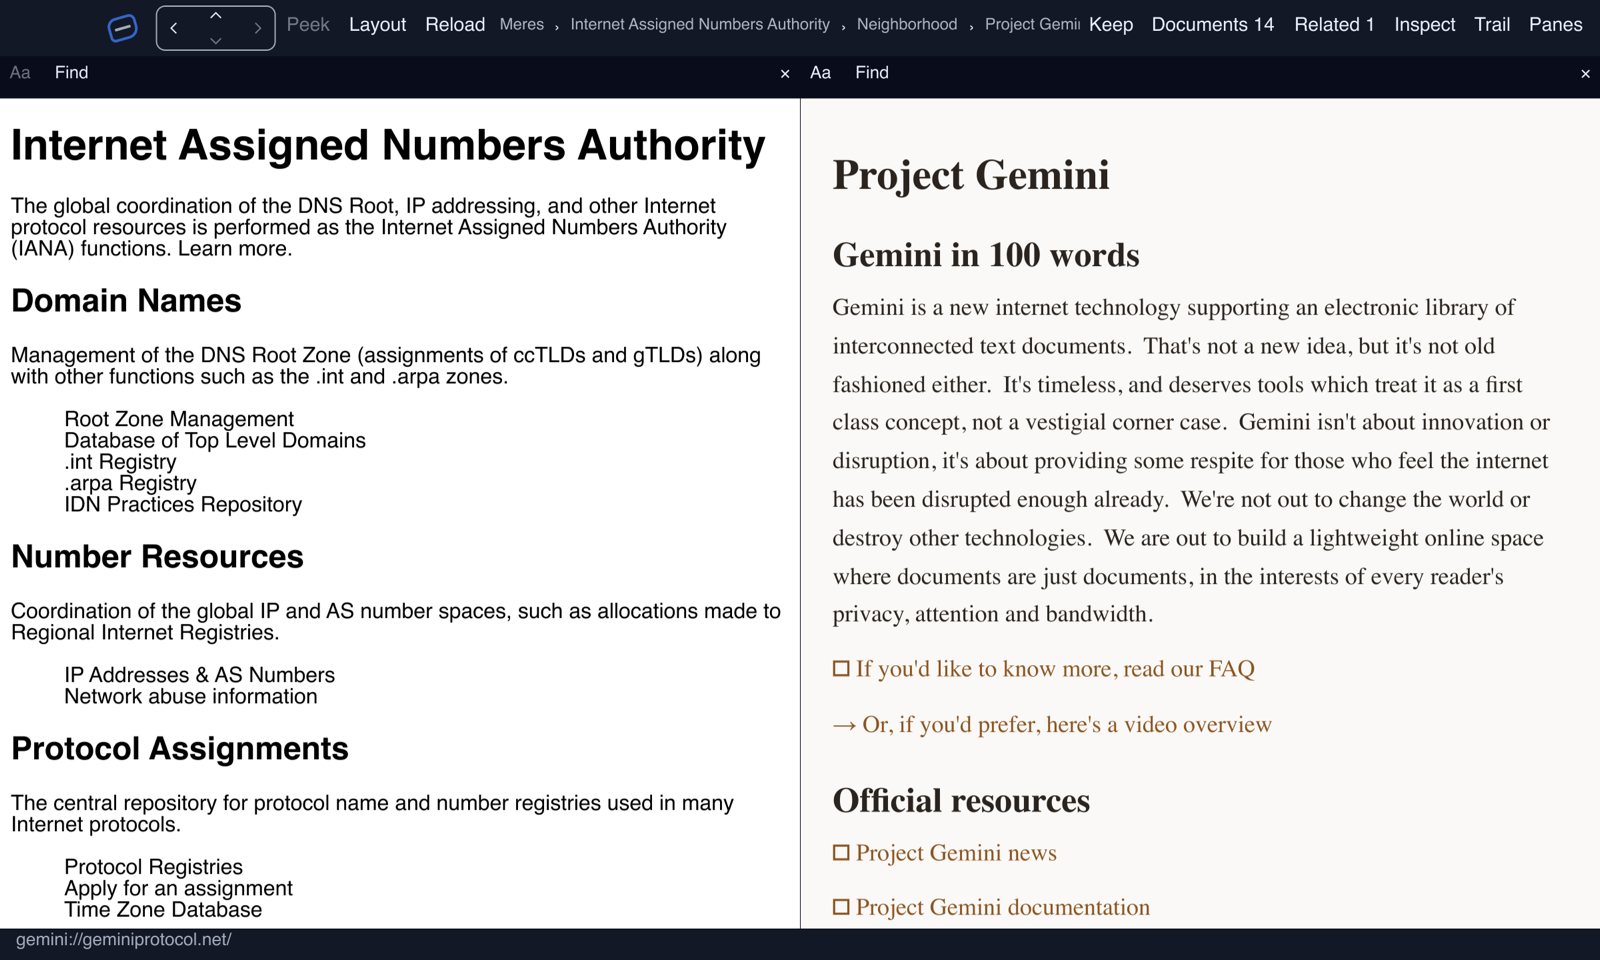
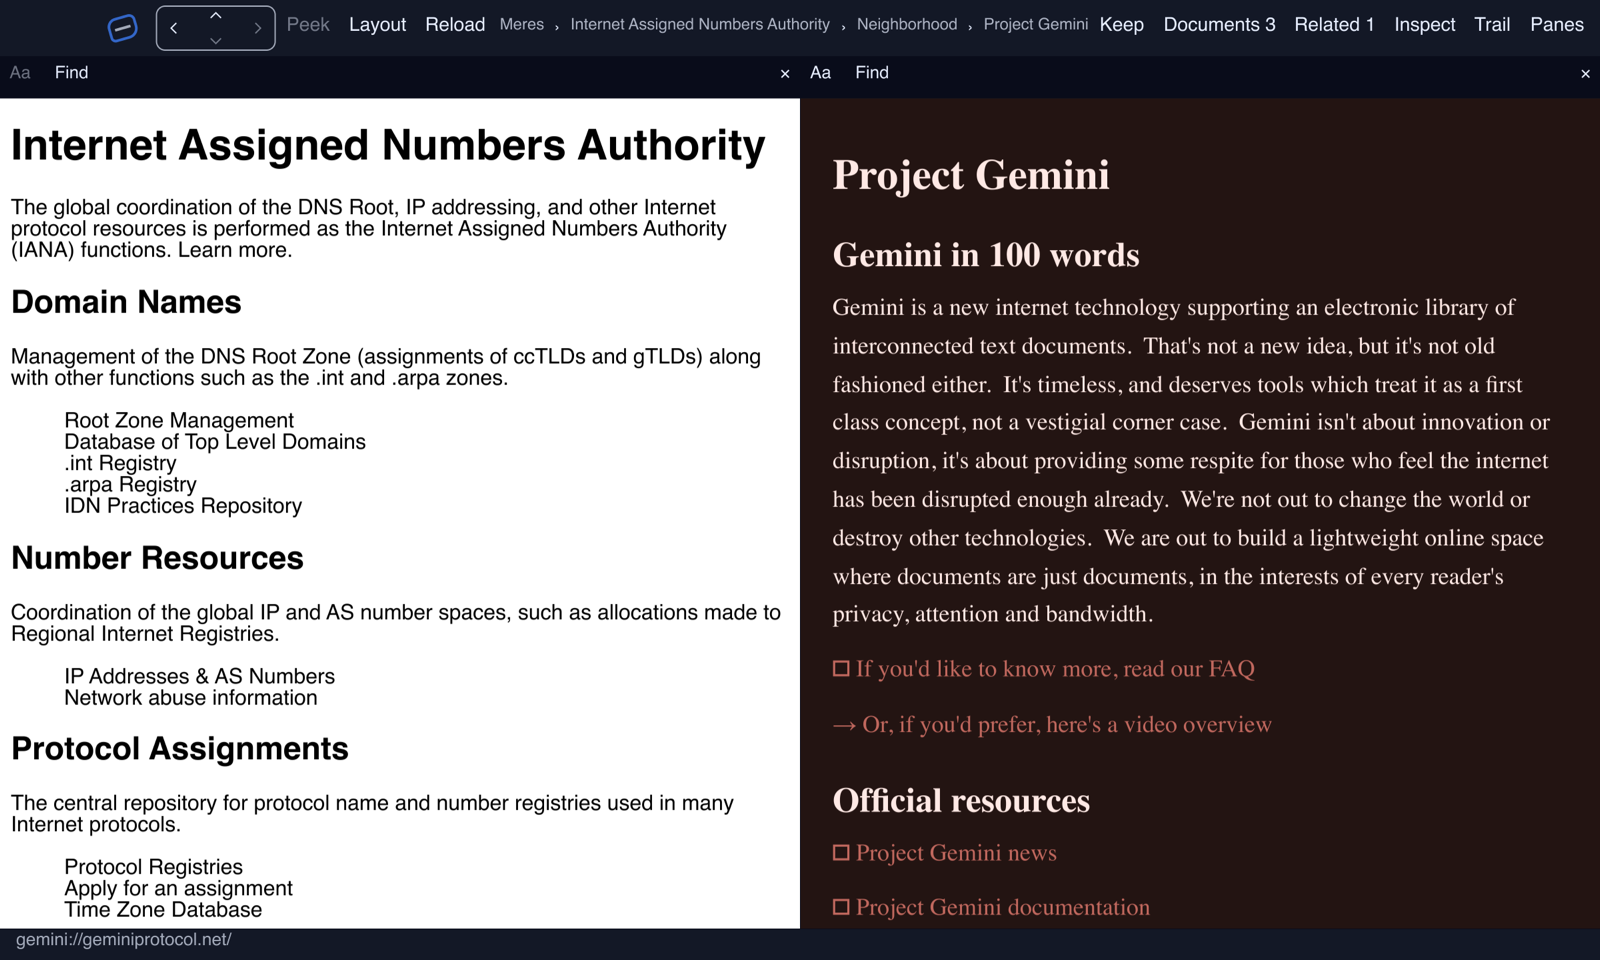
README: Workbench shot with the capsule in the dark host palette
The Gemini capsule now derives its palette under the app's light or
dark mode; the shot is retaken under the default System theme on a
dark desktop.

diff --git a/README.md b/README.md
@@ -144,8 +144,8 @@ founding brief is `design_docs/2026-07-08_turnstone_founding.md`.
 </p>
 
 <p align="center">
-  <img src="assets/screenshots/workbench-split.png" alt="Turnstone Workbench with two tiles: the IANA web page on a white canvas, and the Project Gemini capsule in a warm palette derived from its host" width="900"><br>
-  <sub>The Workbench tiles graph nodes as live documents: a web page beside a Gemini capsule, which takes a palette derived from its host.</sub>
+  <img src="assets/screenshots/workbench-split.png" alt="Turnstone Workbench with two tiles: the IANA web page on a white canvas, and the Project Gemini capsule in a dark palette derived from its host" width="900"><br>
+  <sub>The Workbench tiles graph nodes as live documents: a web page beside a Gemini capsule, which takes a palette derived from its host in the app's light or dark mode.</sub>
 </p>
 
 The canvas and Overview images come from `scenarios/readme_screenshots.scn`,
